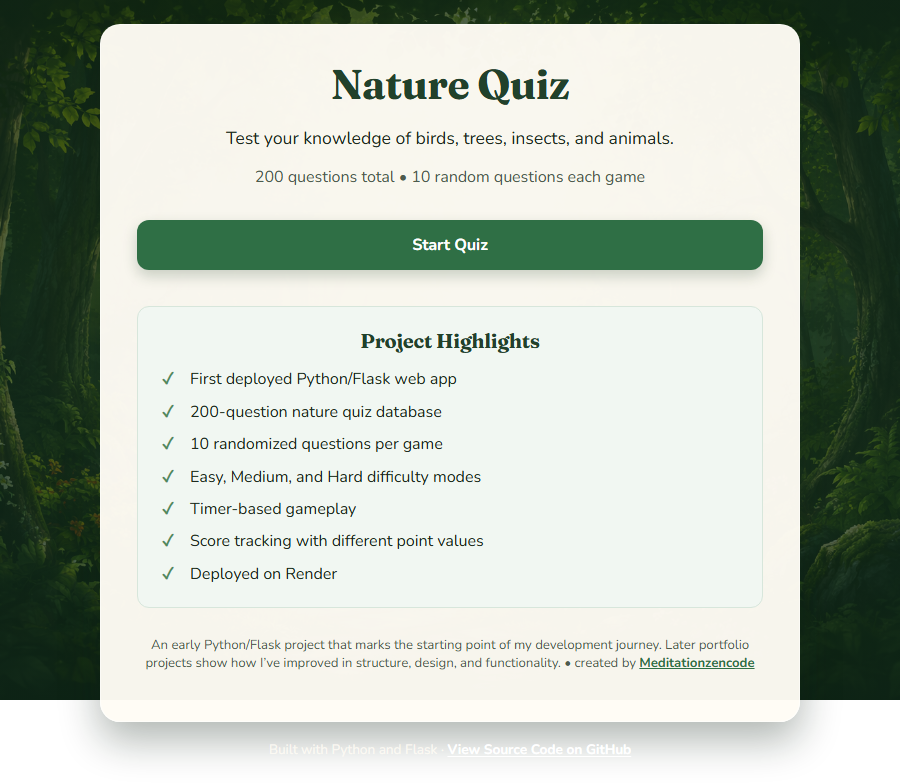
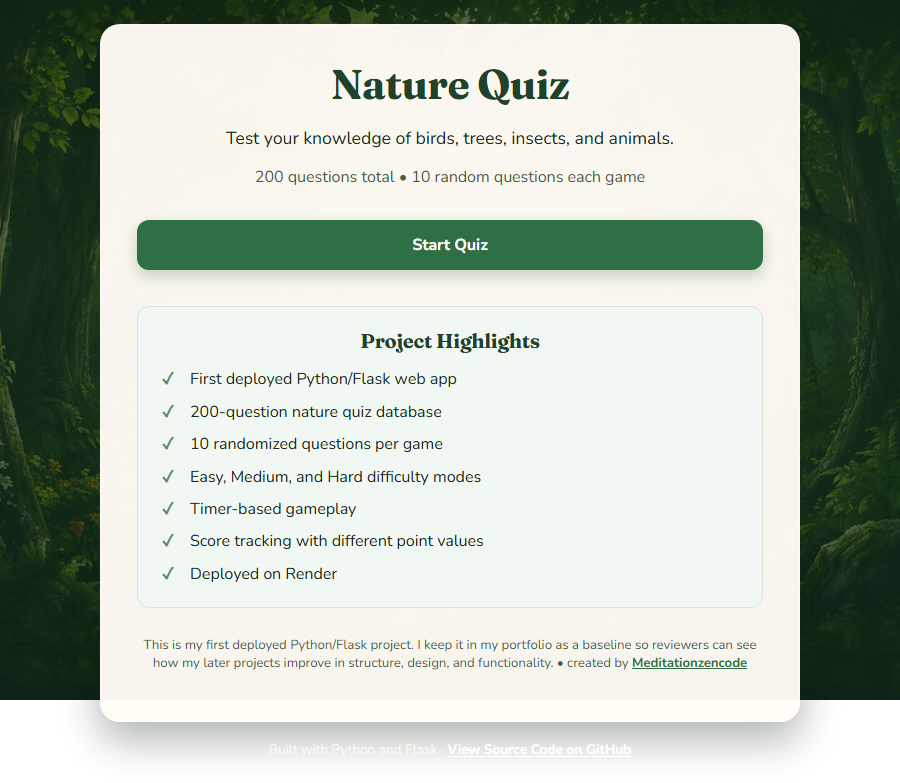
Reword origin blurb to a more confident portfolio framing
Frame the project as 'my first deployed Python/Flask project' kept as
a baseline for reviewers, on both the homepage and README. Refresh the
home screenshot so it shows the new wording.

Changed region(s): [[0.1556, 0.7969, 0.84, 0.8582]]

diff --git a/templates/index.html b/templates/index.html
@@ -23,6 +23,6 @@
         </ul>
     </section>
 
-    <p class="created-by">An early Python/Flask project that marks the starting point of my development journey. Later portfolio projects show how I&rsquo;ve improved in structure, design, and functionality. • created by <a href="https://github.com/Meditationzencode" target="_blank" rel="noopener noreferrer">Meditationzencode</a></p>
+    <p class="created-by">This is my first deployed Python/Flask project. I keep it in my portfolio as a baseline so reviewers can see how my later projects improve in structure, design, and functionality. • created by <a href="https://github.com/Meditationzencode" target="_blank" rel="noopener noreferrer">Meditationzencode</a></p>
 </div>
 {% endblock %}

diff --git a/README.md b/README.md
@@ -20,7 +20,7 @@ A full-stack quiz web app built with **Python** and **Flask**. Players answer 10
 - 40-test pytest suite covering routes, validation, CSRF, headers, and quiz logic
 - Deployed on Render with gunicorn
 
-> An early Python/Flask project that marks the starting point of my development journey. Later portfolio projects show how I've improved in structure, design, and functionality.
+> This is my first deployed Python/Flask project. I keep it in my portfolio as a baseline so reviewers can see how my later projects improve in structure, design, and functionality.
 
 ## Demo
 
